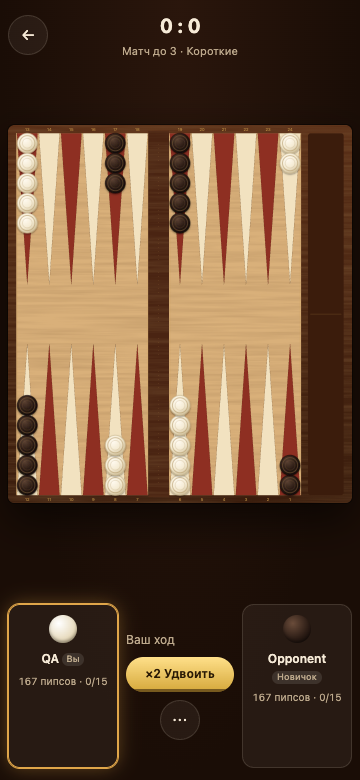
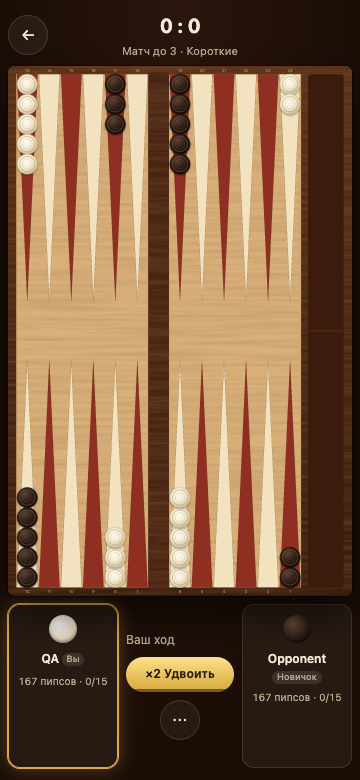
fix(web): expand phone board into unused layout space

diff --git a/apps/web/src/styles.css b/apps/web/src/styles.css
@@ -876,12 +876,12 @@ input:focus {
 
 /* Portrait phone composition: unrotated board, both players below it. */
 .desktop-hud { display: contents; }
-.phone-game { justify-content: flex-start; padding-top: max(12px, env(safe-area-inset-top)); padding-bottom: max(12px, env(safe-area-inset-bottom)); gap: 12px; }
+.phone-game { justify-content: flex-start; padding-top: max(12px, env(safe-area-inset-top)); padding-bottom: max(12px, env(safe-area-inset-bottom)); gap: 8px; }
 .phone-game .game-top { gap: 8px; padding-top: 0; }
 .phone-game .score { grid-template-columns: 1fr; gap: 3px; }
 .phone-game .score small { font-size: 11px; }
-.board-wrap.compact-board { min-height: 0; aspect-ratio: 1000 / 1100; width: min(100%, calc((100dvh - 290px) * 1000 / 1100)); margin-top: clamp(12px, 7dvh, 56px); --die: 8cqw; }
-.mobile-hud { width: 100%; display: grid; grid-template-columns: minmax(0, 1fr) 108px minmax(0, 1fr); align-items: stretch; gap: 8px; margin-top: auto; min-height: 164px; }
+.board-wrap.compact-board { min-height: 0; flex: 1 1 0; aspect-ratio: auto; width: 100%; margin-top: 0; --die: 8cqw; }
+.mobile-hud { width: 100%; display: grid; grid-template-columns: minmax(0, 1fr) 108px minmax(0, 1fr); align-items: stretch; gap: 8px; margin-top: 0; min-height: 164px; flex: none; }
 .mobile-hud .pbar { flex-direction: column; justify-content: center; text-align: center; padding: 10px 4px; gap: 8px; }
 .mobile-hud .pchip { width: 28px; height: 28px; flex: none; }
 .mobile-hud .pinfo { width: 100%; }

diff --git a/apps/web/src/screens/Game.tsx b/apps/web/src/screens/Game.tsx
@@ -73,6 +73,20 @@ function stepSound(s: Step) {
 export function GameScreen({ onExit }: { onExit: () => void }) {
   const T = useT();
   const compact = useCompactLayout();
+  const boardWrap = useRef<HTMLDivElement>(null);
+  const [phoneCross, setPhoneCross] = useState(1500);
+  useEffect(() => {
+    const el = boardWrap.current;
+    if (!compact || !el) return;
+    const resize = () => {
+      const { width, height } = el.getBoundingClientRect();
+      if (width > 0 && height > 0) setPhoneCross(Math.max(660, height / width * 1000));
+    };
+    const observer = new ResizeObserver(resize);
+    observer.observe(el);
+    resize();
+    return () => observer.disconnect();
+  }, [compact]);
   const [moreOpen, setMoreOpen] = useState(false);
   const g = useGame();
   const st = useSettings();
@@ -450,9 +464,9 @@ export function GameScreen({ onExit }: { onExit: () => void }) {
 
       {!compact && playerBar(opp)}
 
-      <div className={'board-wrap' + (compact ? ' compact-board' : '')}>
+      <div ref={boardWrap} className={'board-wrap' + (compact ? ' compact-board' : '')}>
         <BoardView
-          cross={compact ? 1100 : 800}
+          cross={compact ? phoneCross : 800}
           board={board}
           variant={variant}
           viewer={viewer}

diff --git a/apps/web/src/components/geometry.ts b/apps/web/src/components/geometry.ts
@@ -93,12 +93,12 @@ export function assignIds(prev: Map<Loc, number[]> | null, counts: Map<Loc, numb
 }
 
 /** Unrotated board coordinates; portrait phones use longer points. */
-export function geom(cross: 800 | 1100) {
+export function geom(cross: number) {
   const VB_H = cross;
   const TOP = FRAME;
   const BOTTOM = cross - FRAME;
   const MID_Y = cross / 2;
-  const POINT_LEN = cross === 1100 ? 440 : 320;
+  const POINT_LEN = cross === 800 ? 320 : Math.max(280, (cross - 220) / 2);
 function checkerPos(slot: number, k: number, n: number): { x: number; y: number } {
   const sp = stackSpacing(n);
   const x = slotX(slot);

diff --git a/apps/web/src/components/Board.tsx b/apps/web/src/components/Board.tsx
@@ -23,7 +23,7 @@ import type { Theme } from '../lib/settings';
 
 export interface BoardProps {
   board: BoardT;
-  cross?: 800 | 1100;
+  cross?: number;
   variant: Variant;
   viewer: Color;
   theme: Theme;

diff --git a/docs/superpowers/plans/2026-11-15-mobile-ux-rejoin.md b/docs/superpowers/plans/2026-11-15-mobile-ux-rejoin.md
@@ -485,3 +485,8 @@ Round 3 (Opus, fresh context) — 0 P0/P1; rounds 1-2 fixes confirmed by executi
 - Removed the BoardView rotation option, rotation matrices, inverse pointer rotation, counter-rotated text, directional shadows and vertical CSS. Board coordinates always run x horizontally/y vertically. Portrait phone sizing uses unrotated 1000x1100 geometry with longer points; other screens retain 1000x800. Both player panels now sit below the phone board with status, undo, doubling and More between them; compact score/match header above. Reference appearance and avatars were not copied.
 - Build and all workspace typechecks EXIT=0. Updated layout gate: 9 width/theme pages, all rotated=false, checkers outside board:none, console errors0; phone viewBox 0 0 1000 1100, height ratio0.485116, diameter19.9515px; tablet/desktop viewBox0 0 1000 800. Input: tap167->163, drag167->164, landscape780x360 uses standard geometry, EXIT=0. State matrix:63 pages, four movable rings vs4 expected, selected targets2 vs2, 10-stack height290, console errors0, EXIT=0. Full e2e EXIT=0: undo restored350 pips, drop/reject recovery seq3->4, auto-roll reconnect2 frames, stack top6, opponent dimmed0, ghost/tray checks green, online pips136/151, rejoin/reload/fresh tab green, shake dice2, ERRORS=[].
 - Refreshed final state screenshots and added unrotated-{width}-{theme}.png for360/768/1440 x wood/minimal/malachite. Historical Task5 images/log above describe the superseded layout; final-* and unrotated-* images show this revision. No push, merge or deployment.
+
+### Owner revision: use the empty phone space (2026-11-15)
+
+- Removed the extra board top margin and automatic gap before the player panels. Phone layout gaps are8px; the board flexes into all remaining height between the header and player panels. ResizeObserver derives unrotated SVG cross-axis geometry from the actual container ratio, keeping round checkers and correct pointer mapping instead of stretching the SVG. Player controls retain their space; desktop geometry remains800.
+- At360x780 all three themes: board height529.609px (was378.391px), ratio0.678986, viewBox0 0 1000 1539.5621366, rotated=false; checkers outside board:none. Top/bottom layout gaps8px. Layout matrix9 pages and state matrix63 pages passed, console errors0. Movable4/4, selected targets2/2, stack10 height290; undo/double states rendered. Tap167->161, drag167->164; landscape input gate passed. Web typecheck/build/diff checks EXIT=0; LAYOUT_ONLY/STATES_ONLY EXIT=0. Refreshed final-* screenshots and added expanded-* images, including three360x780 own-turn views. No merge, push or deployment.
